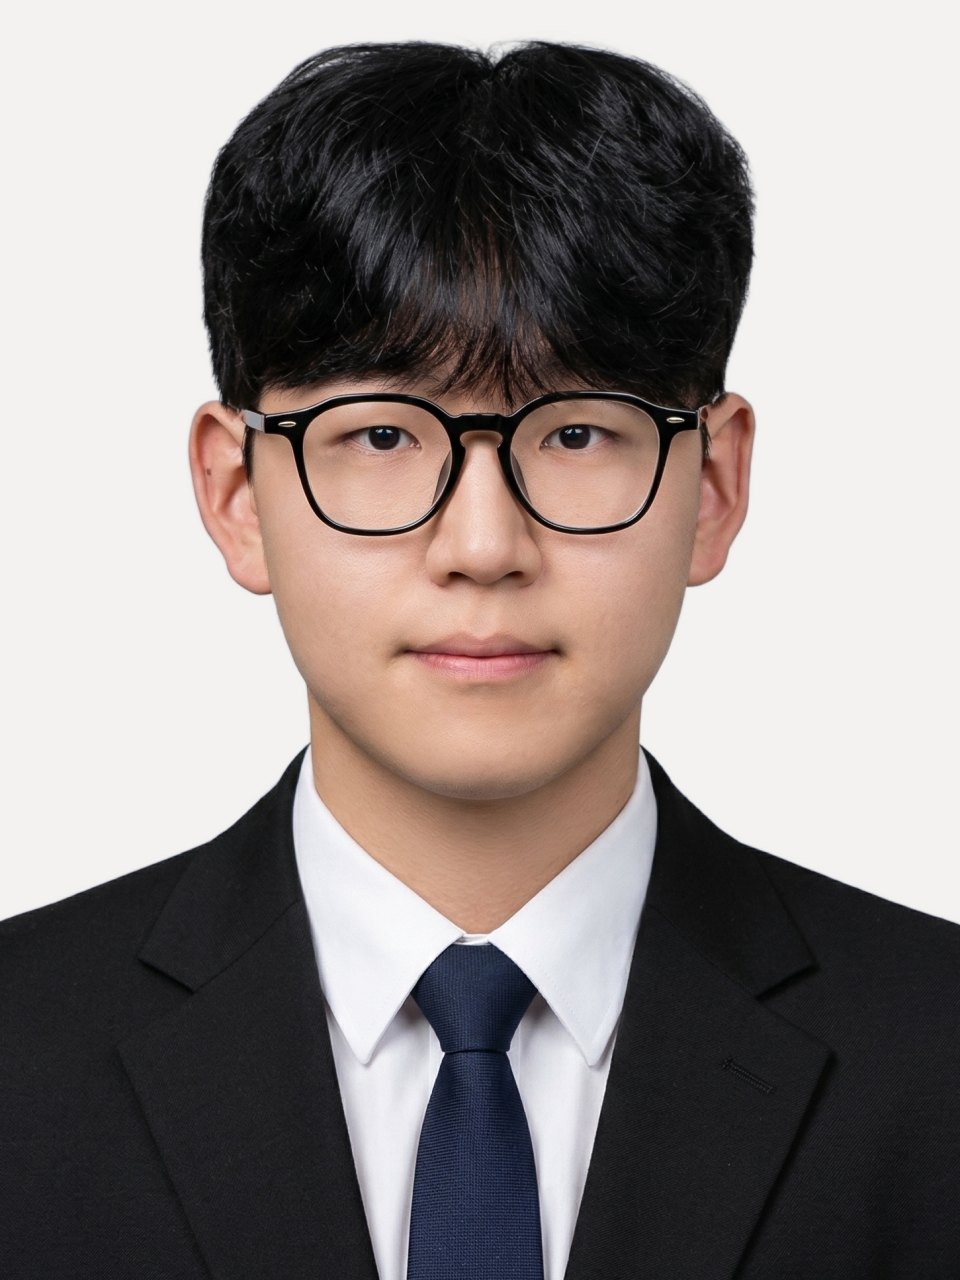
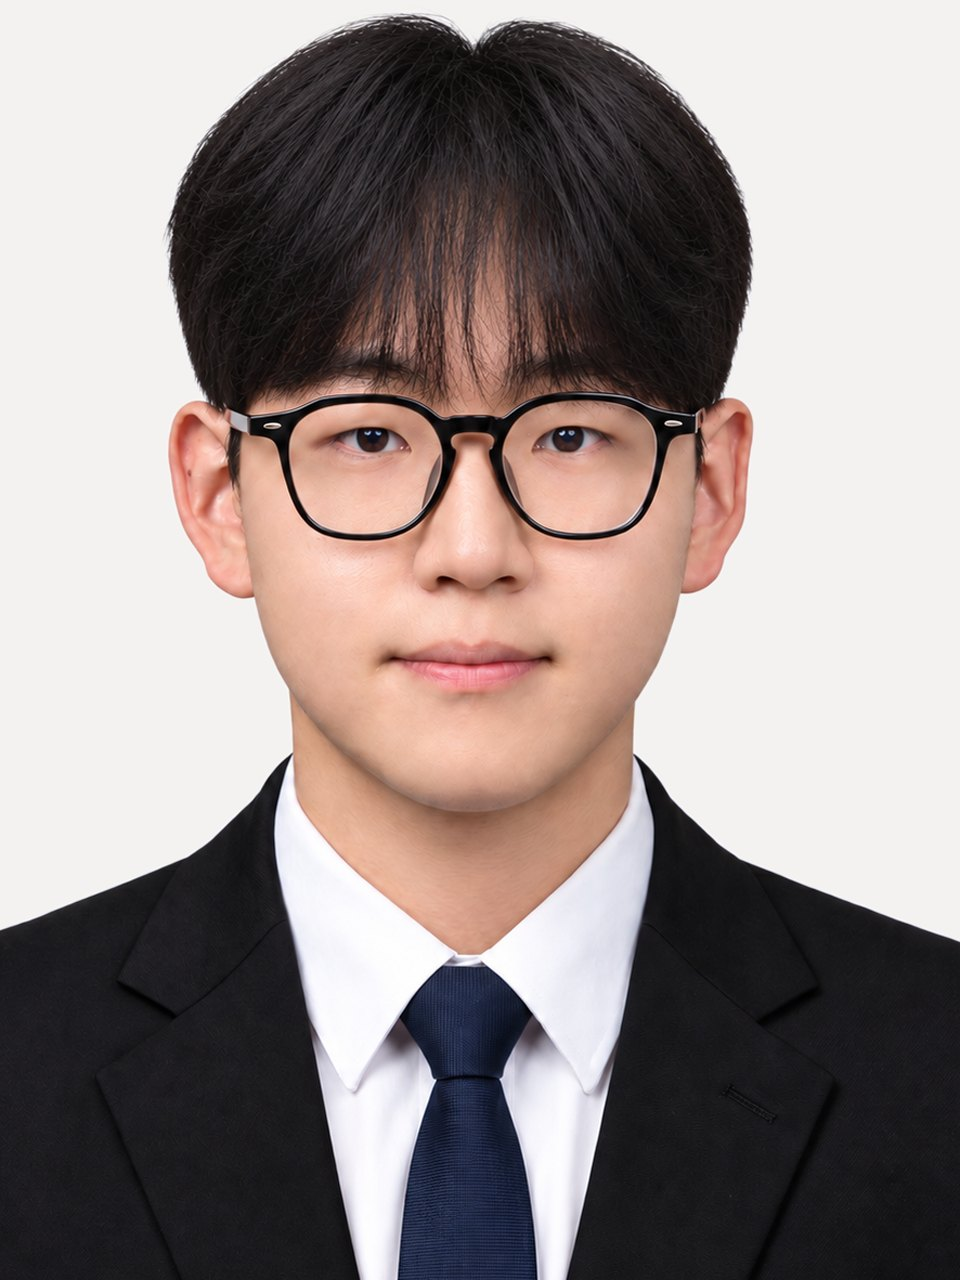
소식에 ITS 세계총회 소식과 가로 사진 페이저를 추가한다
- 소식 목록에 2026 강릉 ITS 세계총회 항목 추가, 영문 직함 Dr. → Prof.
- 소식 맨 아래에 현장 사진 3장을 스냅 스크롤 페이저로 싣는다(점군 해상, 버튼·키보드·쪽수 표기)
- 최우진 증명사진 교체

diff --git a/src/data/gallery.ts b/src/data/gallery.ts
@@ -1,0 +1,61 @@
+import type { I18nText } from '../i18n/types';
+
+export interface GalleryPhoto {
+  id: string;
+  /** `public/` 기준 경로 — 쓸 때 `asset()` 을 거친다(DotPortrait 가 한다). */
+  src: string;
+  width: number;
+  height: number;
+  alt: I18nText;
+  caption: I18nText;
+}
+
+export interface GalleryEvent {
+  title: I18nText;
+  photos: GalleryPhoto[];
+}
+
+/** 소식 페이지 맨 아래의 현장 사진. 새 행사는 배열 맨 앞에 추가. */
+export const GALLERY: GalleryEvent[] = [
+  {
+    title: {
+      en: 'ITS World Congress 2026 · Gangneung',
+      ko: '2026 강릉 ITS 세계총회',
+    },
+    photos: [
+      {
+        id: 'its_panel',
+        src: '/images/its/panel.jpg',
+        width: 4,
+        height: 3,
+        alt: {
+          en: 'Panel discussion in Room 310 at the ITS World Congress 2026 in Gangneung',
+          ko: '2026 강릉 ITS 세계총회 310호 패널 토론',
+        },
+        caption: { en: 'Panel discussion', ko: '패널 토론' },
+      },
+      {
+        id: 'its_poster',
+        src: '/images/its/poster.jpg',
+        width: 3,
+        height: 4,
+        alt: {
+          en: 'A MAIA Lab member presenting a poster at the ITS World Congress 2026',
+          ko: 'ITS 세계총회에서 포스터를 발표하는 MAIA 연구실 구성원',
+        },
+        caption: { en: 'Poster presentation', ko: '포스터 발표' },
+      },
+      {
+        id: 'its_team',
+        src: '/images/its/team.jpg',
+        width: 3,
+        height: 4,
+        alt: {
+          en: 'MAIA Lab members in front of the ITS World Congress 2026 Gangneung sign',
+          ko: '2026 강릉 ITS 세계총회 표지판 앞의 MAIA 연구실 구성원',
+        },
+        caption: { en: 'MAIA Lab at the congress', ko: '연구실 구성원' },
+      },
+    ],
+  },
+];

diff --git a/src/data/news.ts b/src/data/news.ts
@@ -13,10 +13,22 @@ export interface NewsItem {
 /** 최신순. 새 소식은 맨 앞에 추가. */
 export const NEWS: NewsItem[] = [
   {
+    date: '2026-10-21',
+    kind: 'talk',
+    title: {
+      en: 'MAIA Lab took part in the ITS World Congress 2026 in Gangneung with a poster presentation and a panel discussion.',
+      ko: 'MAIA 연구실이 2026 강릉 ITS 세계총회에서 포스터 발표와 패널 토론에 참여했습니다.',
+    },
+    body: {
+      en: 'Poster: Proactive Decision Support through Multimodal Traffic Analysis and Physical AI Simulation.',
+      ko: '포스터: Proactive Decision Support through Multimodal Traffic Analysis and Physical AI Simulation.',
+    },
+  },
+  {
     date: '2026-08-25',
     kind: 'grant',
     title: {
-      en: 'Dr. Hwapyeong Yu has been selected for the Individual Basic Research Program funded by the National Research Foundation (NRF).',
+      en: 'Prof. Hwapyeong Yu has been selected for the Individual Basic Research Program funded by the National Research Foundation (NRF).',
       ko: '유화평 교수가 한국연구재단(NRF) 개인기초연구사업에 선정되었습니다.',
     },
     body: {
@@ -28,7 +40,7 @@ export const NEWS: NewsItem[] = [
     date: '2026-03-01',
     kind: 'lab',
     title: {
-      en: 'Dr. Hwapyeong Yu has joined Myongji University as an Assistant Professor in the Smart Mobility Engineering Major and has established the MAIA Lab.',
+      en: 'Prof. Hwapyeong Yu has joined Myongji University as an Assistant Professor in the Smart Mobility Engineering Major and has established the MAIA Lab.',
       ko: '유화평 교수가 명지대학교 스마트모빌리티공학전공 조교수로 부임하여 MAIA 연구실을 설립했습니다.',
     },
   },

diff --git a/src/i18n/ui.ts b/src/i18n/ui.ts
@@ -76,6 +76,8 @@ export const UI = {
   /** 연구 덱의 이전/다음 — 가로로 넘긴다는 것을 알려주는 유일한 장치다. */
   prevArea: { en: 'Previous area', ko: '이전 분야' },
   nextArea: { en: 'Next area', ko: '다음 분야' },
+  prevPhoto: { en: 'Previous photo', ko: '이전 사진' },
+  nextPhoto: { en: 'Next photo', ko: '다음 사진' },
 
   /** 홈의 요약 구역에서 전체 목록 페이지로 가는 링크. */
   seeAll: { en: 'See all', ko: '전체 보기' },
